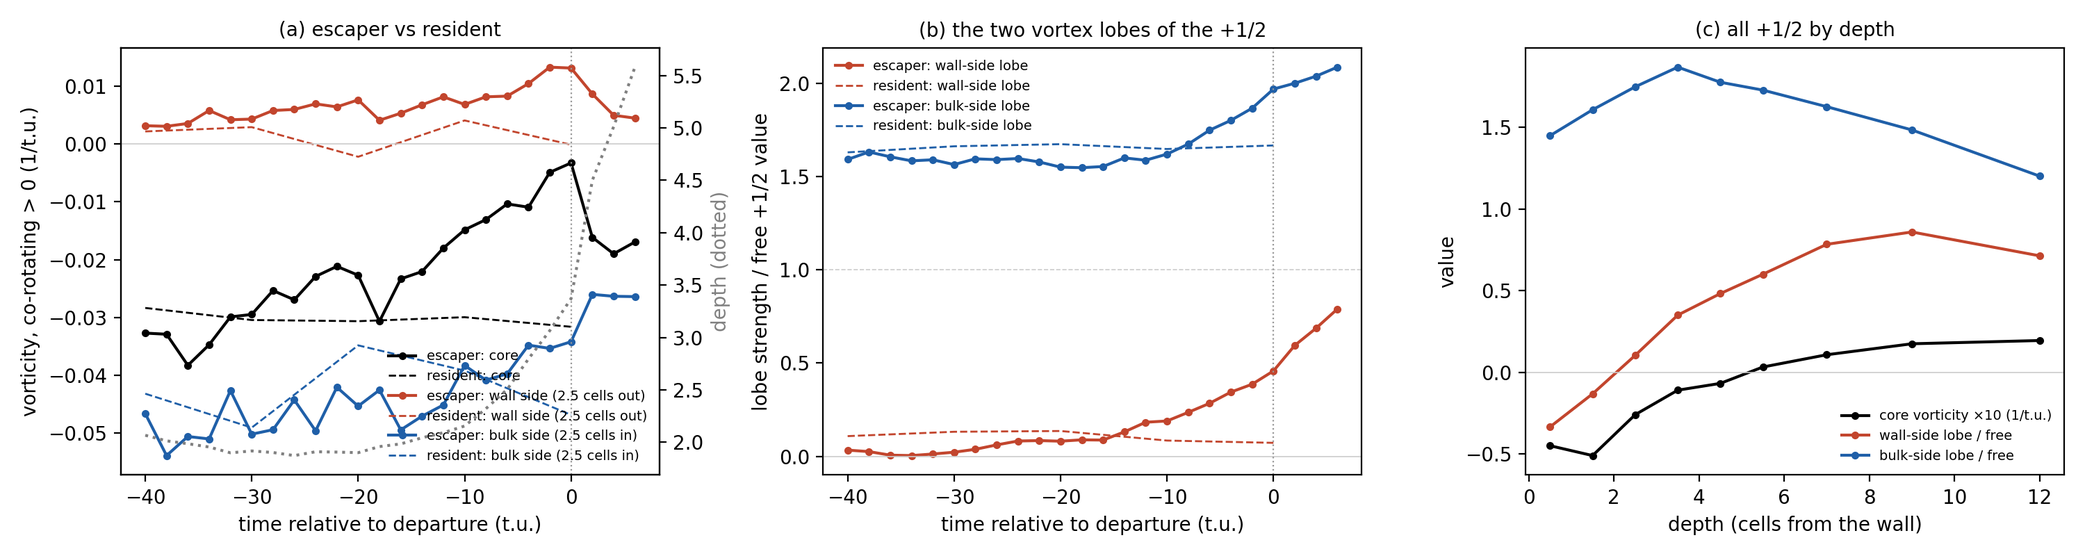
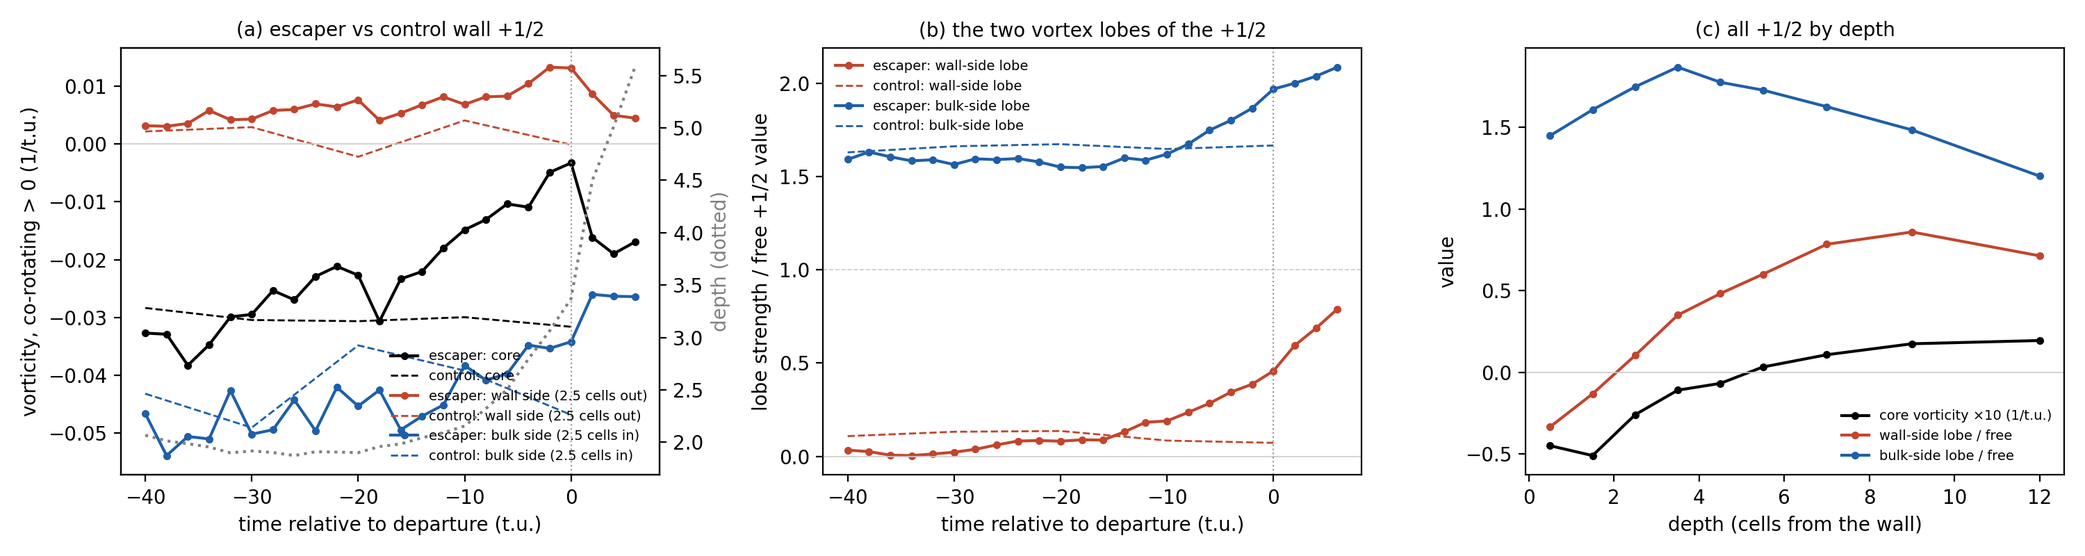
Rename "resident" to "control" in Sec 7, figures and slides; Q-criterion panel (a) as stacked fractions; lamsize results
- Control defined once (random other wall +1/2, same frame and region, not required to stay); legends in plot_etsg, plot_etsg_reg, vortdef (REPLOT mode), qcrit
- Q-criterion panel (a): two stacked sub-panels, colour = defect class
- RESEARCH.md: lambda threshold vs cavity size (preliminary, 2 seeds)

diff --git a/reports/presentation/index.html b/reports/presentation/index.html
@@ -122,7 +122,7 @@
   <img class="fig" src="figs/fig_etsg_shapes.png" alt="Energetics of escapes">
   <ul>
     <li>≈ 1640 depleting escapes: restoring force −11 to −14 k<sub>B</sub>T/cell up to and through departure</li>
-    <li><b>Untilting first</b>: cos τ rises over ≈ 40 t.u. while residents stay flat</li>
+    <li><b>Untilting first</b>: cos τ rises over ≈ 40 t.u. while control wall defects stay flat</li>
   </ul>
 </section>
 
@@ -180,7 +180,7 @@
     <tr><td>−4</td><td>0.14</td><td>0.12</td><td>0.14</td><td>−0.01</td><td>−0.02</td></tr>
   </table>
   <div class="box">Normal mobility μ<sub>n</sub> ≈ 0.0016 ± 0.0004: −12 k<sub>B</sub>T/cell is only −0.02 cells/t.u. of drift. Untilting raises the inward projection; each cell of depth lets more jet through → runaway.</div>
-  <p class="small">Untilting is driven, not rotational diffusion: a Langevin model with the residents' drift reproduces their excursions but not the escapers' 40 t.u. ramp.</p>
+  <p class="small">Untilting is driven, not rotational diffusion: a Langevin model with the drift measured on all wall-band tracks reproduces their excursions but not the escapers' 40 t.u. ramp.</p>
 </section>
 
 <section>

diff --git a/reports/presentation/publish.html b/reports/presentation/publish.html
@@ -116,7 +116,7 @@
   <img class="fig" src="figs/fig_etsg_shapes.png" alt="Energetics of escapes">
   <ul>
     <li>≈ 1640 depleting escapes: restoring force −11 to −14 k<sub>B</sub>T/cell up to and through departure</li>
-    <li><b>Untilting first</b>: cos τ rises over ≈ 40 t.u. while residents stay flat</li>
+    <li><b>Untilting first</b>: cos τ rises over ≈ 40 t.u. while control wall defects stay flat</li>
   </ul>
 </section>
 
@@ -174,7 +174,7 @@
     <tr><td>−4</td><td>0.14</td><td>0.12</td><td>0.14</td><td>−0.01</td><td>−0.02</td></tr>
   </table>
   <div class="box">Normal mobility μ<sub>n</sub> ≈ 0.0016 ± 0.0004: −12 k<sub>B</sub>T/cell is only −0.02 cells/t.u. of drift. Untilting raises the inward projection; each cell of depth lets more jet through → runaway.</div>
-  <p class="small">Untilting is driven, not rotational diffusion: a Langevin model with the residents' drift reproduces their excursions but not the escapers' 40 t.u. ramp.</p>
+  <p class="small">Untilting is driven, not rotational diffusion: a Langevin model with the drift measured on all wall-band tracks reproduces their excursions but not the escapers' 40 t.u. ramp.</p>
 </section>
 
 <section>

diff --git a/reports/theory_report/sec_escape_draft.tex b/reports/theory_report/sec_escape_draft.tex
@@ -3,32 +3,32 @@
 % ======================================================================
 \section{How a wall defect leaves: escape dynamics}\label{sec:escape}
 The shape sweep (Sec.~\ref{sec:shapes}) showed that elongated cavities lose wall defects by single escapes. Here we follow those escapes in time. We keep only
-\emph{depleting} escapes: a resident wall $+\half$ (in the 4-cell wall band for at least 40\,t.u.) leaves a layer that already holds at most $2k-2$ defects, no other
+\emph{depleting} escapes: a wall $+\half$ that has been in the 4-cell wall band for at least 40\,t.u. leaves a layer that already holds at most $2k-2$ defects, no other
 defect takes its place, and the vacancy persists for 10--50\,t.u. These are the events that empty the layer. They are 11--12\% of all escapes; the rest are visitors
 leaving a crowded layer or swaps. Data: the shape sweep (defects every 2\,t.u.; $\approx1640$ depleting escapes) for tilt and elastic energy, and runs with flow and defects
 every 2\,t.u.\ (area 2500, $k=6$, aspect 1--2) for everything involving the flow: the first 12 for the own jet and its wall blocking, all 36 (411 depleting escapes) for vorticity,
-$\mathcal Q$ criterion and force balance. All curves are aligned on the departure frame (escaper deeper than 6 cells within 20\,t.u.).
+$\mathcal Q$ criterion and force balance. All curves are aligned on the departure frame (escaper deeper than 6 cells within 20\,t.u.). As a \emph{control} we take, in the same frame, a randomly chosen other wall $+\half$ in the same wall region, more than 3 cells from the escaper; it is not required to stay in the layer afterwards.
 
 \paragraph{Elasticity does not let go (Fig.~\ref{fig:etsg}).} We computed the Frank energy of the measured defect configurations (point-defect model, anisotropic, cores relaxed)
 with the escaper displaced along the inward normal.
 \begin{itemize}
   \item The restoring force on the escaper stays at $F_0\approx-11$ to $-14\,\kT$/cell (negative pulls towards the wall) up to and through departure, at every aspect and size. It is
-        indistinguishable from residents' and even grows slightly as the defect moves out.
+        indistinguishable from the controls' and even grows slightly as the defect moves out.
   \item The cost of moving 6 cells in drops only in the last $\approx10$\,t.u., by 8--12\,$\kT$: that is the defect leaving, not a precursor.
-  \item In elongated cavities (aspect $\ge1.4$) escape sites are elastically cheaper than residents' by 4--5\,$\kT$ from at least 40\,t.u. before (about 10\,$\kT$ at aspect 2.5; none in circles
+  \item In elongated cavities (aspect $\ge1.4$) escape sites are elastically cheaper than control sites by 4--5\,$\kT$ from at least 40\,t.u. before (about 10\,$\kT$ at aspect 2.5; none in circles
         or at 1.2). This is a standing property of the site, about 10--15\% of the barrier, not a trigger.
 \end{itemize}
 So the escaper leaves against an intact elastic barrier.
 
 \begin{figure}[H]\centering
 \includegraphics[width=\textwidth]{fig_etsg_shapes.png}
-\caption{Depleting escapes in the shape sweep, aligned on departure, by aspect ratio (solid: escaper; dashed: random resident in the same region and frame). (a) Tilt projection
+\caption{Depleting escapes in the shape sweep, aligned on departure, by aspect ratio (solid: escaper; dashed: control, another wall $+\half$ in the same region and frame). (a) Tilt projection
 $\cos\tau$ (1 = head into the bulk); (b) elastic force $F_0$ on the defect along the inward normal ($<0$ pulls towards the wall); (c) Frank-energy cost of moving the defect 6 cells in.}\label{fig:etsg}
 \end{figure}
 
 \paragraph{Untilting first, then a local inward jet (Fig.~\ref{fig:selfflow}).}
 \begin{itemize}
-  \item The escaper untilts over $\approx40$\,t.u.: $\cos\tau$ rises from 0.14 at $-40$\,t.u. to 0.72 at departure, while residents stay flat. The onset is the same at every aspect and size (Fig.~\ref{fig:etsg}a).
+  \item The escaper untilts over $\approx40$\,t.u.: $\cos\tau$ rises from 0.14 at $-40$\,t.u. to 0.72 at departure, while controls stay flat. The onset is the same at every aspect and size (Fig.~\ref{fig:etsg}a).
   \item The inward flow at the defect (within 2 cells) rises only from $\approx-20$\,t.u., to 0.24 cells/t.u.\ at departure. In a ring 4--8 cells around it the flow stays flat or slightly
         \emph{outward} ($-0.01$ to $-0.02$). The burst is local to the defect.
   \item The excess flow at the core over the ring is the defect's own active jet. For free bulk $+\half$ this excess, projected on the head, is $u_\mathrm{jet}=0.32$\,cells/t.u.
@@ -48,7 +48,7 @@ difference, the escaper's own inward velocity, and the own-jet estimate $u_\math
   \item The jet strength along the head is \emph{not} reduced near the wall: 0.36--0.40\,cells/t.u.\ at depth 0--3 against 0.32 in the bulk.
   \item Its component along the wall normal is. The fraction transmitted, $g(d)$ (inward jet over $u_\mathrm{jet}\cos\tau$), is 0.30--0.33 within 2 cells of the wall, 0.58 at 2--3,
         0.86 at 3--4 and $\approx1$ beyond 4 cells. This is the no-penetration condition: near the wall the jet is turned along it.
-  \item Closed law: inward jet $=0.40\,\cos\tau\,g(d)$. It predicts the residents' inward jet exactly (0.056 vs 0.055 at depth 2.1, $\cos\tau=0.34$).
+  \item Closed law: inward jet $=0.40\,\cos\tau\,g(d)$. It predicts the controls' inward jet exactly (0.056 vs 0.055 at depth 2.1, $\cos\tau=0.34$).
 \end{itemize}
 
 \begin{figure}[H]\centering
@@ -62,8 +62,8 @@ its jet is the flow between them. Measured relative to a free bulk $+\half$ (lob
 \begin{itemize}
   \item Near the wall the lobe on the wall side is absent: $-0.13$ of the free value at depth 1--2, 0.10 at 2--3, 0.35 at 3--4, 0.48 at 4--5, 0.60 at 5--6 and 0.78--0.86 deeper. This is the same depth scale as $g(d)$.
   \item With one lobe missing, a wall defect sits in net counter-rotating vorticity ($-0.051$/t.u.\ at depth 1--2, against $+0.02$ for bulk $+\half$).
-  \item In escapers the wall-side lobe recovers \emph{before} the defect moves: 0.03, 0.08, 0.19, 0.34 and 0.46 at $-40$, $-20$, $-10$, $-4$ and 0\,t.u., and 0.7 just after departure (residents 0.07--0.14).
-        At $-10$\,t.u.\ the escaper is still 2.2 cells deep, where the typical wall-side lobe is 0.10. The core vorticity of the escaper falls from $-0.033$ to $-0.003$/t.u.\ by departure (residents stay at $-0.03$): the escaper ends up riding its own symmetric flow.
+  \item In escapers the wall-side lobe recovers \emph{before} the defect moves: 0.03, 0.08, 0.19, 0.34 and 0.46 at $-40$, $-20$, $-10$, $-4$ and 0\,t.u., and 0.7 just after departure (controls 0.07--0.14).
+        At $-10$\,t.u.\ the escaper is still 2.2 cells deep, where the typical wall-side lobe is 0.10. The core vorticity of the escaper falls from $-0.033$ to $-0.003$/t.u.\ by departure (controls stay at $-0.03$): the escaper ends up riding its own symmetric flow.
 \end{itemize}
 Untilting swings the lobes so that the wall-side lobe leaves the wall and recovers; the dipole becomes symmetric again and the jet straightens inward.
 
@@ -72,14 +72,14 @@ smoothed over 2.5 cells, below which MPCD noise fills the cavity with $\mathcal 
 \begin{itemize}
   \item MPCD reproduces their constraint. Bulk $+\half$ sit closer to $\mathcal Q=0$ lines than random points (median distance 0.85 vs 1.38 cells; large distances several times rarer).
         Bulk $-\half$ lean to rotation-dominated regions (mean $\mathcal Q_n=+0.26$ deep in the bulk, median distance 2.2 cells), away from the lines. Wall $+\half$ also prefer the lines (48--72\% within 1 cell vs 30--40\% for random points).
-  \item Escapers land on a $\mathcal Q=0$ line as they leave (Fig.~\ref{fig:qcrit}a, purple). About 60\% are within one cell of a line until $-10$\,t.u., as residents (61--66\%);
+  \item Escapers land on a $\mathcal Q=0$ line as they leave (Fig.~\ref{fig:qcrit}a, top). About 60\% are within one cell of a line until $-10$\,t.u., as the controls (61--66\%);
         then the fraction rises to 89\% at departure and 91--94\% at $+4$ to $+6$\,t.u.\ (median distance 0.25 cells). One cell is the natural tolerance: the tracker places defects on the cell grid (whole cells, occasionally half or sixth cells
         from averaging a cluster), and the line itself is located between cells of opposite sign. This is tighter than free bulk $+\half$ (63\%),
         so it is not just the defect entering the bulk.
   \item The criterion is the distance to the nearest line, not the value of $\mathcal Q_n$ at the core. $\mathcal Q_n$ is broadly spread at every lag (median $|\mathcal Q_n|$ 0.3--0.4, also
-        for residents), because it changes sign within about a cell across a line: an escaper 0.25 cells from a line still has $|\mathcal Q_n|\approx0.4$ at its core. At departure it sits
+        for the controls), because it changes sign within about a cell across a line: an escaper 0.25 cells from a line still has $|\mathcal Q_n|\approx0.4$ at its core. At departure it sits
         on the strain side of the line (64\% have $\mathcal Q_n<0$), as expected for the extensional flow along its jet.
-  \item Before departure the escaper leans to the rotation side (Fig.~\ref{fig:qcrit}a, orange): 61--65\% of escapers have $\mathcal Q_n>0$ from $-20$ to $-10$\,t.u., against 42--51\% of residents
+  \item Before departure the escaper leans to the rotation side (Fig.~\ref{fig:qcrit}a, bottom): 61--65\% of escapers have $\mathcal Q_n>0$ from $-20$ to $-10$\,t.u., against 42--51\% of the controls
         and 45\% of escapers at $-40$\,t.u. This is a shift of a broad distribution, not a rotation-dominated state; it matches the one-sided vortex lobe seen above.
 \end{itemize}
 In Head et al.'s language, an escape is the wall $+\half$ regaining the viscometric constraint of a free $+\half$. (The sizes of the $\mathcal Q_n$ shifts depend on the smoothing scale;
@@ -87,15 +87,15 @@ the landing on a $\mathcal Q=0$ line at departure does not.)
 
 \begin{figure}[H]\centering
 \includegraphics[width=\textwidth]{fig_vortdef_ff36.png}
-\caption{Vorticity around $+\half$ defects, signed by the cavity circulation. (a) Escaper vs resident: core, 2.5 cells towards the wall and towards the bulk. (b) Strength of the escaper's
+\caption{Vorticity around $+\half$ defects, signed by the cavity circulation. (a) Escaper vs control: core, 2.5 cells towards the wall and towards the bulk. (b) Strength of the escaper's
 wall-side and bulk-side vortex lobes relative to a free $+\half$. (c) All $+\half$ by depth.}\label{fig:vort}
 \end{figure}
 
 \begin{figure}[H]\centering
 \includegraphics[width=\textwidth]{fig_qcrit_ff36s25.png}
 \caption{$\mathcal Q$ criterion around defects (flow smoothed over 2.5 cells; $\mathcal Q_n=(\|\Omega\|^2-\|E\|^2)/(\|\Omega\|^2+\|E\|^2)$, $-1$ pure strain, 0 shear, $+1$ pure rotation).
-(a) Escapers (solid, 411 events; bands: standard error) and residents (dashed) aligned on departure: fraction within one cell of a $\mathcal Q=0$ line (purple; dotted: random points) and
-fraction with $\mathcal Q_n>0$ at the core (orange). (b) Mean $\mathcal Q_n$ at $\pm\half$ and random points by depth. (c) Fraction within one cell of a $\mathcal Q=0$ line by depth.}\label{fig:qcrit}
+(a) Escapers (black, 411 events; band: standard error) aligned on departure, against the control, another wall $+\half$ in the same frame and region (grey dashed) and random fluid
+points (dotted). Top: fraction within one cell of a $\mathcal Q=0$ line. Bottom: fraction with $\mathcal Q_n>0$ at the core (rotation side). (b) Mean $\mathcal Q_n$ at $\pm\half$ and random points by depth. (c) Fraction within one cell of a $\mathcal Q=0$ line by depth.}\label{fig:qcrit}
 \end{figure}
 
 \paragraph{Force balance.} Per frame, we fitted the escaper's inward velocity as $v_\mathrm{in}=\alpha\,u_\mathrm{jet,in}+\beta\,u_\mathrm{ring}+\mu_n F_0+c$
@@ -118,19 +118,19 @@ $+6$  & 0.31 & 0.31 & 0.33 & $-0.02$ & $-0.02$ \\ \bottomrule
 \end{tabular}
 \end{table}
 \noindent The model tracks the run-up and misses the burst at departure, probably position jumps in the defect detection at the band edge. With the closed jet law instead of the measured jet
-(tilt and depth only) the fit is somewhat worse ($R^2$ 0.21 vs 0.30) with the same $\mu_n$, and it predicts the residents' inward jet exactly (0.044 vs 0.044).
+(tilt and depth only) the fit is somewhat worse ($R^2$ 0.21 vs 0.30) with the same $\mu_n$, and it predicts the controls' inward jet exactly (0.044 vs 0.044).
 
 \keybox{\textbf{Escape in one paragraph.} A wall $+\half$ is held mainly by its tilt and by the wall, not by elasticity. Its jet is full strength, but the tilt points it along the wall and the
 no-slip wall erases its wall-side vortex lobe, so only $\approx30\%$ of the inward component acts (about $+0.05$\,cells/t.u.). That is balanced by an elastic drift of
 $\approx-0.02$ and by pinning. Untilting raises the inward projection and lets the missing lobe recover; each cell of depth then lets more of the jet act (0.33, 0.58, 0.86, 1), so the push
 triples between 2 and 4 cells and the defect runs away. It leaves on a $\mathcal Q=0$ line, like a free $+\half$.}
 
-\paragraph{Tips and flanks (Fig.~\ref{fig:etsgreg}).} Per resident wall defect, the tips leak 2--2.5$\times$ faster than the flanks at aspect $\ge1.4$. At the onset (aspect 1.2) escapes are almost only at the tips (61 vs 5 on the flanks).
+\paragraph{Tips and flanks (Fig.~\ref{fig:etsgreg}).} Per wall defect, the tips leak 2--2.5$\times$ faster than the flanks at aspect $\ge1.4$. At the onset (aspect 1.2) escapes are almost only at the tips (61 vs 5 on the flanks).
 From aspect 1.4 on every region leaks, and only $\approx40\%$ of escapes are at the tips. All regions share the untilting run-up, but the weak spot differs:
 \begin{itemize}
-  \item At the tips the whole layer is less tilted (residents $\cos\tau=0.46$ vs 0.25--0.29 elsewhere), so every tip defect already has more of its jet pointing inward. There is no elastic difference
+  \item At the tips the whole layer is less tilted (controls $\cos\tau=0.46$ vs 0.25--0.29 elsewhere), so every tip defect already has more of its jet pointing inward. There is no elastic difference
         (escape cost 73.5 vs 75.9\,$\kT$).
-  \item On the flanks and mid sections, escapes start from elastically cheaper sites: 7--9\,$\kT$ below residents from 40\,t.u.\ before, probably a gap in the layer next to the site.
+  \item On the flanks and mid sections, escapes start from elastically cheaper sites: 7--9\,$\kT$ below control sites from 40\,t.u.\ before, probably a gap in the layer next to the site.
   \item In the flow (36 runs: 190 tip, 140 mid, 81 flank escapes) the mechanism is the same everywhere: jet coefficient 0.82--0.90, the wall-side lobe recovers in the same way, and 87--91\% land on a $\mathcal Q=0$ line.
         At the tips the elastic pull is dynamically absent ($\mu_n=0.0005\pm0.0005$ vs 0.0024--0.0027 elsewhere) and the background flow is carried fully.
 \end{itemize}
@@ -199,7 +199,7 @@ The escape mechanism makes a testable prediction. A larger flow-alignment parame
 points into the bulk and they should escape less often. We ran the aspect-2 ellipse ($k=6$, area 2500) at $\lambda=2$ and 4. (We also ran $\lambda=1.2$, but there the coherent flow
 fails even in the circle, Sec.~\ref{sec:tilt}, so it is not a clean comparison.)
 \begin{itemize}
-  \item \textbf{The prediction holds.} From $\lambda=2$ to 4 the residents' inward projection $\cos\tau$ falls from 0.19 to 0.14 and the depleting-escape rate falls 10$\times$
+  \item \textbf{The prediction holds.} From $\lambda=2$ to 4 the mean inward projection $\cos\tau$ of all wall $+\half$ falls from 0.19 to 0.14 and the depleting-escape rate falls 10$\times$
         (0.65 to 0.066 per wall defect per 1000\,t.u.). The flow is \emph{stronger} at $\lambda=4$ ($v_\mathrm{rms}$ 0.57 to 0.70), so the drop is due to the tilt, not to a weaker flow.
   \item \textbf{The same protection slows the refill.} A bulk $+\half$ entering the layer has to cross the same wall band, where its jet is turned along the wall in the same way. All exits
         (not only depleting ones) fall 6$\times$ (2.81 to 0.46 per wall defect per 1000\,t.u.), and entries into a vacancy fall 3.7$\times$ (3.61 to 0.98 per vacancy).

diff --git a/reports/master/theory/energetics/qcrit.py b/reports/master/theory/energetics/qcrit.py
@@ -76,7 +76,7 @@ if __name__ == "__main__":
     kind = a[:, 0].astype(str); lag = a[:, 2].astype(int); d, ct, qn, qd, dq = (a[:, i].astype(float) for i in range(3, 8))
     m_ = lambda x: np.nanmean(x); md = lambda x: np.nanmedian(x); se = lambda x: np.nanstd(x) / np.sqrt(max(np.isfinite(x).sum(), 1))
     L = [f"Q criterion, smoothing sigma {SIG} cell(s). Qn = (|O|^2-|E|^2)/(|O|^2+|E|^2) at the point; d_Q = distance to the nearest Q = 0 line; P(d_Q<1) = fraction within 1 cell",
-         "ESCAPERS: lag(t.u.) depth cos_tau  Qn  d_Q(median)  P(d_Q<1)  |  residents: Qn  d_Q  P(d_Q<1)"]
+         "ESCAPERS: lag(t.u.) depth cos_tau  Qn  d_Q(median)  P(d_Q<1)  |  controls: Qn  d_Q  P(d_Q<1)"]
     for lg in LAGS:
         e = (kind == "esc") & (lag == lg); c = (kind == "ctl") & (lag == lg)
         if not e.any(): continue
@@ -100,23 +100,26 @@ if __name__ == "__main__":
     for i in range(len(hb) - 1): L.append(f"  {hb[i]}-{hb[i+1]}: {prof['hp'][i]:.3f}  {prof['hm'][i]:.3f}  {prof['hrnd'][i]:.3f}   (+1/2 / random {prof['hp'][i] / max(prof['hrnd'][i], 1e-9):.2f}, -1/2 / random {prof['hm'][i] / max(prof['hrnd'][i], 1e-9):.2f})")
     print("\n".join(L)); open(os.path.join(H, f"qcrit_{tag}.txt"), "w").write("\n".join(L) + "\n")
     fig, ax = plt.subplots(1, 3, figsize=(15, 4)); tl = 2 * np.array(LAGS)
-    # (a) per-event fractions, not the mean Qn: Qn is broadly spread around 0 (median |Qn| 0.3-0.4), so its mean cancels and misleads (user, 2026-10-13).
-    #     purple: fraction within 1 cell of a Q = 0 line (the viscometric constraint); orange: fraction with Qn > 0 (rotation side). Solid escaper, dashed resident; bands = binomial s.e.
+    # (a) per-event fractions, not the mean Qn (Qn is broad around 0, median |Qn| 0.3-0.4, so its mean cancels; user, 2026-10-13). Two stacked panels, one quantity each.
+    #     Colour = defect class: escaper (black, s.e. band), control = another wall +1/2 in the same frame and wall region, > 3 cells away (grey dashed; not necessarily a
+    #     long-time resident), random fluid point (dotted).
     cl = sorted(set(lag[kind == "ctl"])); LG = [l for l in LAGS if ((kind == "esc") & (lag == l)).any()]; tl = 2 * np.array(LG)
     def frac(sel, f):
         x = f(sel); n = sel.sum(); p = x.sum() / max(n, 1); return p, np.sqrt(p * (1 - p) / max(n, 1))
-    for nm, fn_, col in (("within 1 cell of a Q = 0 line", lambda s_: dq[s_] < 1, "#7a3b8f"), ("Qn > 0 (rotation side)", lambda s_: qn[s_] > 0, "#e08a1e")):
-        E = np.array([frac((kind == "esc") & (lag == l), fn_) for l in LG]); C = np.array([frac((kind == "ctl") & (lag == l), fn_) for l in cl])
-        ax[0].plot(tl, E[:, 0], "-o", ms=3, color=col, label=f"escaper: {nm}"); ax[0].fill_between(tl, E[:, 0] - E[:, 1], E[:, 0] + E[:, 1], color=col, alpha=0.2, lw=0)
-        ax[0].errorbar(2 * np.array(cl), C[:, 0], yerr=C[:, 1], fmt="--s", ms=4, color=col, alpha=0.7, capsize=2, label=f"resident: {nm}")
-    ax[0].axhline(np.mean(dq[kind == "rnd"] < 1), color="#7a3b8f", lw=0.8, ls=":", label="random point: within 1 cell")
-    ax[0].axhline(0.5, color="0.7", lw=0.6); ax[0].set_ylim(0.0, 1.0)
-    ax[0].set_xlabel("time relative to departure (t.u.)"); ax[0].set_ylabel("fraction of samples"); ax[0].axvline(0, color="0.6", lw=0.8, ls=":"); ax[0].set_title("(a) escaper vs resident", fontsize=10)
+    ax[0].remove(); gs0 = ax[1].get_gridspec()[0].subgridspec(2, 1, hspace=0.12); A0 = [fig.add_subplot(gs0[0]), None]; A0[1] = fig.add_subplot(gs0[1], sharex=A0[0])
+    for j, (ttl, fn_, rnd) in enumerate((("(a) within 1 cell of a $\\mathcal{Q}=0$ line", lambda s_: dq[s_] < 1, np.mean(dq[kind == "rnd"] < 1)),
+                                         ("with $\\mathcal{Q}_n>0$ at the core (rotation side)", lambda s_: qn[s_] > 0, np.mean(qn[kind == "rnd"] > 0)))):
+        E = np.array([frac((kind == "esc") & (lag == l), fn_) for l in LG]); C = np.array([frac((kind == "ctl") & (lag == l), fn_) for l in cl]); a_ = A0[j]
+        a_.plot(tl, E[:, 0], "-o", ms=3, color="k", label="escaper"); a_.fill_between(tl, E[:, 0] - E[:, 1], E[:, 0] + E[:, 1], color="k", alpha=0.15, lw=0)
+        a_.errorbar(2 * np.array(cl), C[:, 0], yerr=C[:, 1], fmt="--s", ms=4, color="0.55", capsize=2, label="control (other wall +1/2, same frame and region)")
+        a_.axhline(rnd, color="0.55", lw=0.9, ls=":", label="random point"); a_.axvline(0, color="0.6", lw=0.8, ls=":")
+        a_.text(0.02, 0.95, ttl, transform=a_.transAxes, fontsize=8.5, va="top"); a_.set_ylabel("fraction"); a_.spines["top"].set_visible(False); a_.spines["right"].set_visible(False)
+    A0[0].set_ylim(0.35, 1.0); A0[1].set_ylim(0.3, 0.75); plt.setp(A0[0].get_xticklabels(), visible=False)
+    A0[1].set_xlabel("time relative to departure (t.u.)"); A0[0].legend(fontsize=6.5, frameon=False, loc="center left", bbox_to_anchor=(0.0, 0.62))
     for kd, nm, col in (("p", "+1/2", "#c2452d"), ("m", "−1/2", "#1f5fa8"), ("rnd", "random point", "0.5")):
         P_ = np.array(prof[kd]); ax[1].plot(P_[:, 0], P_[:, 1], "-o", ms=3, color=col, label=nm); ax[2].plot(P_[:, 0], P_[:, 3], "-o", ms=3, color=col, label=nm)
     ax[1].set_xlabel("depth (cells from the wall)"); ax[1].set_ylabel("mean Qn at the point"); ax[1].set_title("(b) flow type at defects by depth", fontsize=10)
     ax[2].set_xlabel("depth (cells from the wall)"); ax[2].set_ylabel("P(within 1 cell of a Q = 0 line)"); ax[2].set_title("(c) on viscometric lines?", fontsize=10)
     for a_ in ax[1:]: a_.axhline(0, color="0.8", lw=0.6)
-    ax[0].legend(fontsize=6.5, frameon=False, loc="lower left", ncol=1)
     for a_ in ax[1:]: a_.legend(fontsize=7, frameon=False)
     fig.suptitle(f"Q criterion (Head et al. 2024) around defects, smoothing σ = {SIG:g} cell", fontsize=10); fig.tight_layout(); fig.savefig(os.path.join(H, f"fig_qcrit_{tag}.png"), dpi=200)

diff --git a/reports/master/theory/energetics/vortdef.py b/reports/master/theory/energetics/vortdef.py
@@ -63,9 +63,12 @@ def one(run):
     return out
 if __name__ == "__main__":
     tag = sys.argv[1]; runs = [os.path.abspath(r) for r in sys.argv[2:]]
-    with Pool(min(12, len(runs))) as pool: res = pool.map(one, runs, chunksize=1)
-    a = np.array(sum(res, []), dtype=object); np.save(os.path.join(H, f"vortdef_{tag}.npy"), a, allow_pickle=True)
-    np.save(os.path.join(H, f"vortdef_{tag}_runs.npy"), np.array([(r, i) for r, o in zip(runs, res) for i in range(len(o))], dtype=object), allow_pickle=True)   # run of each row (for the region split)
+    if os.environ.get("REPLOT"):   # redraw from the saved samples
+        a = np.load(os.path.join(H, f"vortdef_{tag}.npy"), allow_pickle=True)
+    else:
+      with Pool(min(12, len(runs))) as pool: res = pool.map(one, runs, chunksize=1)
+      a = np.array(sum(res, []), dtype=object); np.save(os.path.join(H, f"vortdef_{tag}.npy"), a, allow_pickle=True)
+      np.save(os.path.join(H, f"vortdef_{tag}_runs.npy"), np.array([(r, i) for r, o in zip(runs, res) for i in range(len(o))], dtype=object), allow_pickle=True)   # run of each row (for the region split)
     kind = a[:, 0].astype(str); lag = a[:, 2].astype(int); ct, d, wc, ww, wb, wl, wr, gam, sgm, lw, lat = (a[:, i].astype(float) for i in range(3, 14))
     wl, wr = wl * sgm, wr * sgm                                       # undo the circulation sign: raw lobe vorticity in the defect frame
     bulkm = (kind == "all") & (d > 8); O0 = np.nanmean(wl[bulkm] - wr[bulkm]) / 2         # free +1/2: left = +O0, right = -O0
@@ -75,7 +78,7 @@ if __name__ == "__main__":
     m_ = lambda x: np.nanmean(x); se = lambda x: np.nanstd(x) / np.sqrt(max(np.isfinite(x).sum(), 1))
     L = [f"vorticity signed by the cavity circulation (> 0 co-rotating); |wall-band circulation| {np.nanmean(gam):.3f}; units 1/t.u.; free +1/2 lobe strength O0 = {O0:+.4f} (bulk, depth > 8)",
          "lobes: wallL / bulkL = strength of the lobe on the wall / bulk side in units of the free value (only when |left.normal| > 0.5); net = (left+right)/2/O0",
-         "ESCAPERS: lag(t.u.) depth cos_tau  core  wall-side  bulk-side  net-lobe  wallL  bulkL |  residents (same lags): core  wall-side  bulk-side  net-lobe  wallL  bulkL"]
+         "ESCAPERS: lag(t.u.) depth cos_tau  core  wall-side  bulk-side  net-lobe  wallL  bulkL |  controls (same lags): core  wall-side  bulk-side  net-lobe  wallL  bulkL"]
     for lg in LAGS:
         e = (kind == "esc") & (lag == lg); c = (kind == "ctl") & (lag == lg)
         s = f"{2*lg:+4d}  {m_(d[e]):.2f}  {m_(ct[e]):+.2f}   {m_(wc[e]):+.4f}±{se(wc[e]):.4f}  {m_(ww[e]):+.4f}  {m_(wb[e]):+.4f}  {m_(asym[e]):+.2f}  {m_(wallL[e]):+.2f}  {m_(bulkL[e]):+.2f}"
@@ -92,12 +95,12 @@ if __name__ == "__main__":
     fig, ax = plt.subplots(1, 3, figsize=(15, 4)); tl = 2 * np.array(LAGS)
     for Y, nm, col in ((wc, "core", "k"), (ww, "wall side (2.5 cells out)", "#c2452d"), (wb, "bulk side (2.5 cells in)", "#1f5fa8")):
         ax[0].plot(tl, [m_(Y[(kind == "esc") & (lag == l)]) for l in LAGS], "-o", ms=3, color=col, label=f"escaper: {nm}")
-        cl = sorted(set(lag[kind == "ctl"])); ax[0].plot(2 * np.array(cl), [m_(Y[(kind == "ctl") & (lag == l)]) for l in cl], "--", color=col, lw=1, label=f"resident: {nm}")
-    ax[0].set_ylabel("vorticity, co-rotating > 0 (1/t.u.)"); ax[0].set_xlabel("time relative to departure (t.u.)"); ax[0].set_title("(a) escaper vs resident", fontsize=10)
+        cl = sorted(set(lag[kind == "ctl"])); ax[0].plot(2 * np.array(cl), [m_(Y[(kind == "ctl") & (lag == l)]) for l in cl], "--", color=col, lw=1, label=f"control: {nm}")
+    ax[0].set_ylabel("vorticity, co-rotating > 0 (1/t.u.)"); ax[0].set_xlabel("time relative to departure (t.u.)"); ax[0].set_title("(a) escaper vs control wall +1/2", fontsize=10)
     ax2 = ax[0].twinx(); ax2.plot(tl, [m_(d[(kind == "esc") & (lag == l)]) for l in LAGS], ":", color="0.5"); ax2.set_ylabel("depth (dotted)", color="0.5")
     for Y, nm, col in ((wallL, "wall-side lobe", "#c2452d"), (bulkL, "bulk-side lobe", "#1f5fa8")):
         ax[1].plot(tl, [m_(Y[(kind == "esc") & (lag == l)]) for l in LAGS], "-o", ms=3, color=col, label=f"escaper: {nm}")
-        cl = sorted(set(lag[kind == "ctl"])); ax[1].plot(2 * np.array(cl), [m_(Y[(kind == "ctl") & (lag == l)]) for l in cl], "--", color=col, lw=1, label=f"resident: {nm}")
+        cl = sorted(set(lag[kind == "ctl"])); ax[1].plot(2 * np.array(cl), [m_(Y[(kind == "ctl") & (lag == l)]) for l in cl], "--", color=col, lw=1, label=f"control: {nm}")
     ax[1].axhline(1, color="0.8", lw=0.6, ls="--")
     ax[1].set_xlabel("time relative to departure (t.u.)"); ax[1].set_ylabel("lobe strength / free +1/2 value"); ax[1].set_title("(b) the two vortex lobes of the +1/2", fontsize=10)
     P_ = np.array(prof)

diff --git a/reports/theory_report/theory_report.tex b/reports/theory_report/theory_report.tex
@@ -189,7 +189,7 @@ $R/\la\approx0.4$--0.6, where it is measured. The bulk $+1$ is natural in this p
   \item Flow alignment rotates the director in the wall layer by about the Leslie angle (measured 26--33$^\circ$ at the defects' depth, Sec.~\ref{sec:tilt}; an earlier estimate of 4--5$^\circ$
         was wrong) and erases the elastic spiral deeper in the active bulk (measured 74--87$^\circ$ vs the elastic 122$^\circ$).
         The azimuthal drive is confined to an annulus $r/R\approx0.6$--0.9 just inside the layer.
-  \item The resident layer is not advected (coefficient 0.002--0.004 against fluid speeds 0.13--0.16): the tilted layer sits at a static, shifted registry. (A defect that is leaving does follow the background flow, Sec.~\ref{sec:escape}.)
+  \item The wall layer as a whole is not advected (coefficient 0.002--0.004 against fluid speeds 0.13--0.16): the tilted layer sits at a static, shifted registry. (A defect that is leaving does follow the background flow, Sec.~\ref{sec:escape}.)
         Under an imposed vortex the active layer is stick--slip: pinned until the flow at its depth reverses, then a jump of the size predicted by the lock.
   \item Size of the tilt: elasticity alone ($K_1\neq K_3$ to second order) locks it at $\approx35^\circ$, not $\approx60^\circ$. The missing ingredient is flow alignment in the no-slip
         shear (Sec.~\ref{sec:tilt}).

diff --git a/reports/master/theory/energetics/plot_etsg.py b/reports/master/theory/energetics/plot_etsg.py
@@ -18,12 +18,12 @@ for s in ASP:
 for q, yl in enumerate(("cos τ (1 = head into the bulk)", "elastic force F₀ (kBT/cell; < 0 restoring)", "cost to move 6 cells in, E₆ (kBT)")):
     ax[q].set_xlabel("time relative to departure (t.u.)"); ax[q].set_ylabel(yl); ax[q].axvline(0, color="0.6", lw=0.8, ls=":")
     for sp_ in ("top", "right"): ax[q].spines[sp_].set_visible(False)
-ax[0].legend(fontsize=8, frameon=False, title="solid: escaper, dashed: resident", title_fontsize=8)
+ax[0].legend(fontsize=8, frameon=False, title="solid: escaper, dashed: control", title_fontsize=8)
 n0 = {s: int(((kind == "esc") & (asp == s) & (lag == 0)).sum()) for s in ASP}
 fig.suptitle("Depleting escapes in the shape sweep (ellipses + circles, R_eq 1.0/1.5/2.0, 3 seeds): " + ", ".join(f"{s:g}: {n0[s]}" for s in ASP) + " events", fontsize=9.5)
 fig.tight_layout(); fig.savefig(os.path.join(H, "fig_etsg_shapes.png"), dpi=200)
 # size split of the key contrast at lag -20 frames (-40 t.u.) and 0
-L.append("\nsize split (escaper minus resident, same lag):")
+L.append("\nsize split (escaper minus control, same lag):")
 for s in ASP:
     for r in sorted(set(req)):
         row = []

diff --git a/reports/master/theory/energetics/plot_etsg_reg.py b/reports/master/theory/energetics/plot_etsg_reg.py
@@ -21,6 +21,6 @@ for sel_name, sel in (("aspect >= 1.4", asp >= 1.35), ("aspect 1.2", np.abs(asp 
 for q, yl in enumerate(("cos τ (1 = head into the bulk)", "elastic force F₀ (kBT/cell; < 0 pulls to the wall)", "cost to move 6 cells in, E₆ (kBT)")):
     ax[q].set_xlabel("time relative to departure (t.u.)"); ax[q].set_ylabel(yl); ax[q].axvline(0, color="0.6", lw=0.8, ls=":")
     for s_ in ("top", "right"): ax[q].spines[s_].set_visible(False)
-ax[0].legend(fontsize=8, frameon=False, title="solid: escaper, dashed: resident", title_fontsize=8)
+ax[0].legend(fontsize=8, frameon=False, title="solid: escaper, dashed: control", title_fontsize=8)
 fig.suptitle("Depleting escapes by wall region, ellipses aspect ≥ 1.4 (shape sweep)", fontsize=10); fig.tight_layout(); fig.savefig(os.path.join(H, "fig_etsg_reg.png"), dpi=200)
 open(os.path.join(H, "etsg_reg.txt"), "w").write("\n".join(L) + "\n"); print("\n".join(L))

diff --git a/RESEARCH.md b/RESEARCH.md
@@ -1671,3 +1671,15 @@ Wall −1/2 in time bins 0–20 / 20–100 / 100–300 / 300–700 / 700–1500 
 - On resume: read these outputs; lamsize → λ threshold vs R/ℓa; qscan → nucleation vs bulk charge; mixed → capacitor current.
 - (later) fig_qcrit_ff36s25 panel (a) redrawn (user: mean Qn misleading): per-event fractions — within 1 cell of a Q=0 line and Qn>0, escaper vs resident, s.e. bands, random baseline; REPLOT=1 mode in qcrit.py. Text: mean Qn ~0 for residents is cancellation (median |Qn| 0.31); escapers at departure 89% within 1 cell but |Qn|≈0.43, strain side (64% Qn<0); run-up 'rotation-dominated phase' reworded as a shift (61–65% Qn>0 vs 42–51%).
   1-cell tolerance justified in text: tracker positions on the cell grid (20848 of ~22k samples at integer positions in fineflow/eps1.0_s1).
+
+### 2026-10-13 ~22:45 — λ threshold vs cavity size (runs/lamsize, k 6, ζ 0.07, 2 seeds per cell; tiltlaw.py per R_eq)
+| R_eq/ℓa | λ | wall (of 10) | bulk | tilt mean (arccos) | coherence | v_rms |
+|---|---|---|---|---|---|---|
+| 1.0 | 1.5 / 1.75 / 2 | 9.84 / 9.54 / 10.08 | +1.08 / +1.23 / +0.96 | 53.4 / 56.0 / 58.2 (48.2/55.2/60.0) | 0.66 / 0.70 / 0.97 | 0.44 / 0.48 / 0.58 |
+| 1.5 | 1.5 / 1.75 / 2 | 8.93 / 9.97 / 9.96 | +1.54 / +1.02 / +1.02 | 61.7 / 60.7 / 64.5 | 0.90 / 0.99 / 1.00 | 0.63 / 0.75 / 0.87 |
+| 2.0 | 1.5 / 1.75 / 2 | 9.02 / 9.64 / 9.72 | +1.49 / +1.18 / +1.15 | 61.1 / 62.2 / 64.6 | 0.98 / 0.99 / 1.00 | 0.82 / 0.88 / 0.97 |
+- PRELIMINARY (2 seeds). Small cavity: loses COHERENCE at low λ but keeps the full wall. Large cavities: stay COHERENT (0.98 at λ 1.5, R_eq 2) but lose about one wall defect; R_eq 2 leaks slightly even at λ 2 (9.72, bulk +1.15).
+- So coherence loss and layer loss are separable and go opposite ways with size → contradicts the Sec 5 wording "more likely the loss of coherent flow" (written today). Layer loss at fixed coherence fits the jet route (cos τ = 1/λ inward share) with stronger flow in larger cavities.
+- Tilt at λ 2 grows with size (58.2 / 64.5 / 64.6) along with v_rms → the residual over arccos(1/λ) depends on flow strength (cf. boundary-layer term ∝ √s). Revisit "last few degrees".
+- (later) qcrit panel (a) re-redrawn (user: colours/labels confusing, resident label wrong): two stacked sub-panels (top: within 1 cell of Q=0; bottom: Qn>0), colour = class (escaper black, control grey dashed, random dotted). 'Resident' control = random other wall +1/2 in the same frame and region, >3 cells away, NOT required to stay in the layer (same definition in energetics_general, vortdef, qcrit); now defined once at the start of Sec 7 and named 'other wall +1/2' in this figure.
+- (later) 'resident' → 'control' throughout Sec 7, figure legends (plot_etsg, plot_etsg_reg, vortdef [REPLOT mode added], qcrit) and slides. Kept the genuine meaning only in the escape definition (reworded: 'a wall +1/2 that has been in the band ≥ 40 t.u.'); 'per resident wall defect' → 'per wall defect'; λ-test cos τ is the mean over ALL wall +1/2 (lambda_an), now said so; Sec 3 'resident layer' → 'wall layer as a whole'.
